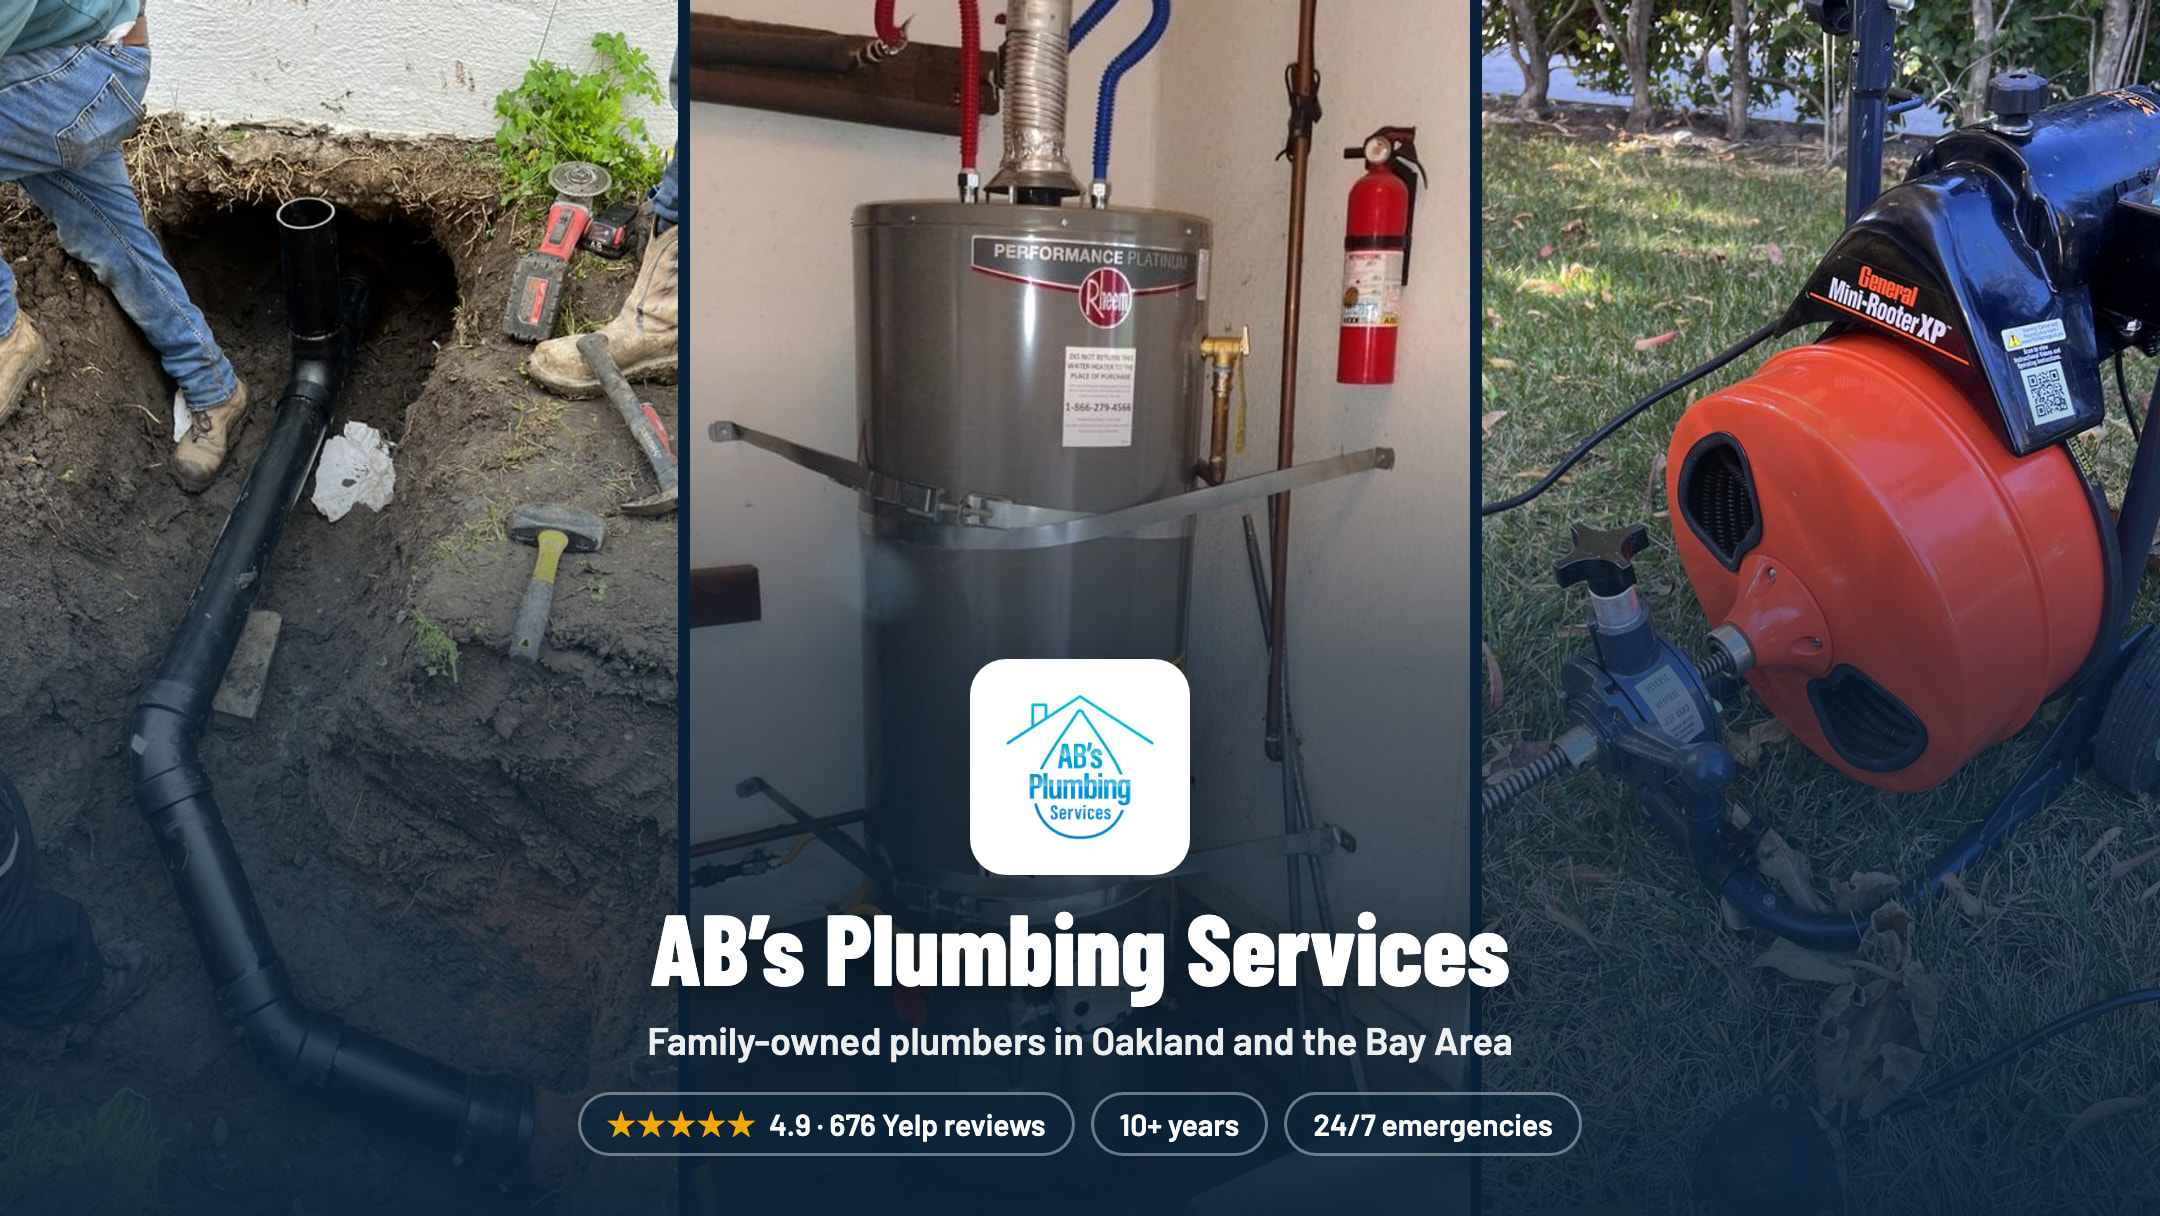
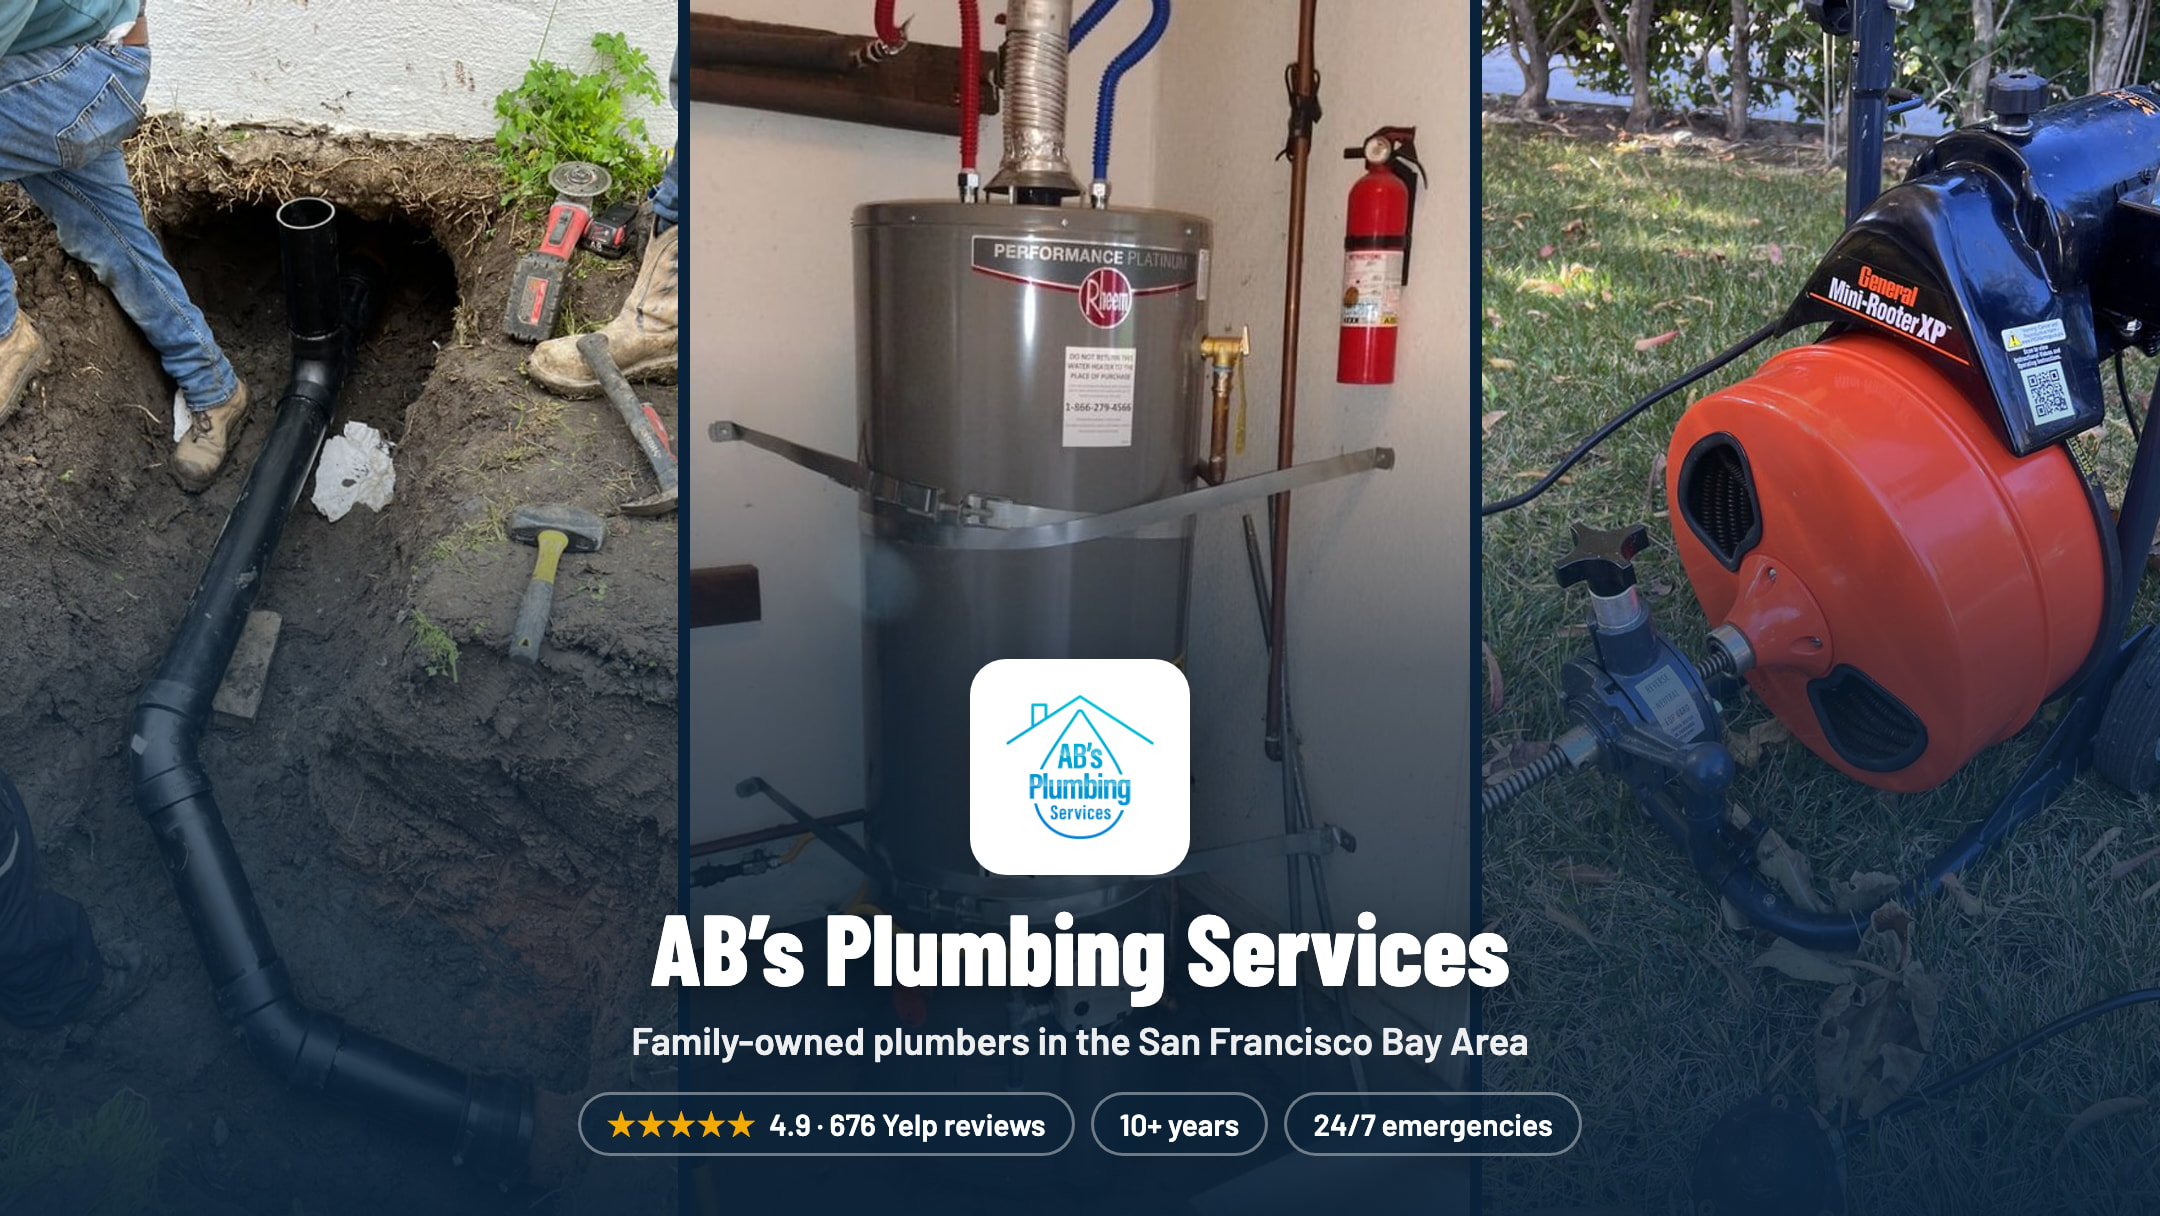
GBP cover: say San Francisco Bay Area instead of Oakland
Claude-Session: https://claude.ai/code/session_011v2MkKNfKAuU7ZPEyXpDVC

Changed region(s): [[0.2792, 0.8438, 0.7134, 0.875]]

diff --git a/brand-assets/google-business/src/cover.html b/brand-assets/google-business/src/cover.html
@@ -32,7 +32,7 @@
     <div class="brand">
       <div class="badge"><img src="../../abslogo-original.png" alt=""></div>
       <h1>AB’s Plumbing Services</h1>
-      <p>Family-owned plumbers in Oakland and the Bay Area</p>
+      <p>Family-owned plumbers in the San Francisco Bay Area</p>
       <ul class="facts">
         <li><span class="stars">★★★★★</span><span><b>4.9</b> · 676 Yelp reviews</span></li>
         <li><span><b>10+</b> years</span></li>
